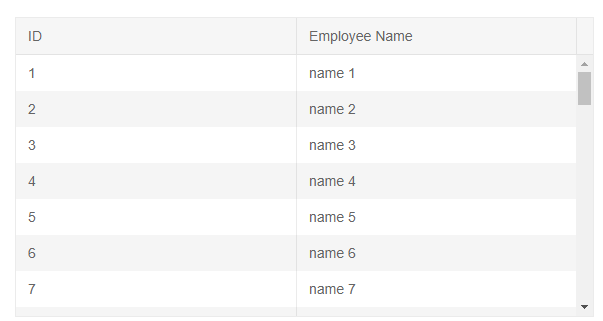
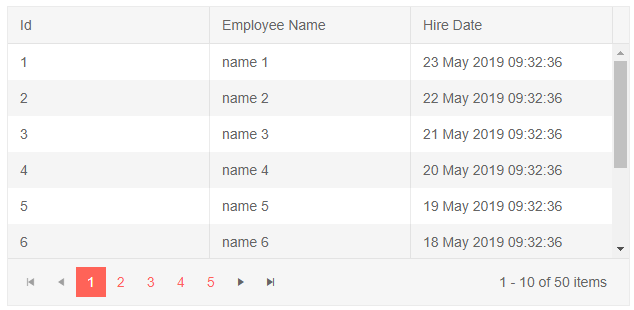
chore(grid): improve getting started example

diff --git a/components/grid/overview.md b/components/grid/overview.md
@@ -16,22 +16,39 @@ To create a basic Telerik Grid:
 
 1. use the `TelerikGrid` tag
 1. set its `Data` attribute to the variable that will hold your collection of data
-1. under its `TelerikGridColumns` tag, set the desired [`TelerikGridColumn`]({%slug components/grid/columns/bound%}) instances whose `Field` property points to the name of the model
+1. under its `TelerikGridColumns` tag, set the desired [`TelerikGridColumn`]({%slug components/grid/columns/bound%}) instances whose `Field` property points to the name of the model field
 
->caption Basic example of binding a grid to some data
+>caption Get started with a grid by providing it with a data collection
 
 ````CSHTML
 @using Telerik.Blazor.Components.Grid
 
-<TelerikGrid Data="@MyData">
+<TelerikGrid Data="@MyData" Height="300px" Pageable="true" Sortable="true">
 	<TelerikGridColumns>
-		<TelerikGridColumn Field="ID"></TelerikGridColumn>
-		<TelerikGridColumn Field="TheName" Title="Employee Name"></TelerikGridColumn>
+		<TelerikGridColumn Field="@(nameof(SampleData.Id))" />
+		<TelerikGridColumn Field="@(nameof(SampleData.Name))" Title="Employee Name" />
+		<TelerikGridColumn Field="@(nameof(SampleData.HireDate))" Title="Hire Date" />
 	</TelerikGridColumns>
 </TelerikGrid>
 
 @functions {
-	public IEnumerable<object> MyData = Enumerable.Range(1, 50).Select(x => new { ID = x, TheName = "name " + x });
+	public IEnumerable<SampleData> MyData = Enumerable.Range(1, 50).Select(x => new SampleData
+	{
+		Id = x,
+		Name = "name " + x,
+		HireDate = DateTime.Now.AddDays(-x)
+	});
+	
+	public class SampleData
+	{
+		public int Id { get; set; }
+		public string Name { get; set; }
+		public DateTime HireDate { get; set; }
+	}
+
+	//in a real case, consider fetching the data in an appropriate event like OnInitAsync
+	//also, consider keeping the models in dedicated locations like a shared library
+	//this is just an example that is easy to copy and run
 }
 ````
 
@@ -39,41 +56,7 @@ To create a basic Telerik Grid:
 
 ![](images/basic-grid.png)
 
->tip In a real case, you will probably be binding the grid to an actual model. You can use the `nameof` C# operator to provide the names of the fields to the `Field` property of the column.
-
->caption Example of populating the `Field` from the model name to ensure type-safety:
-
-````CSHTML
-@using Telerik.Blazor.Components.Grid
-
-<TelerikGrid Data="@MyData">
-	<TelerikGridColumns>
-		<TelerikGridColumn Field="@(nameof(SampleData.ID))">
-		</TelerikGridColumn>
-		<TelerikGridColumn Field="@(nameof(SampleData.Name))" Title="Employee Name">
-		</TelerikGridColumn>
-		<TelerikGridColumn Field="@(nameof(SampleData.HireDate))" Title="Hire Date">
-		</TelerikGridColumn>
-	</TelerikGridColumns>
-</TelerikGrid>
-
-@functions {
-    //in a real case, keep the models in dedicated locations, this is just an easy to copy and see example
-	public class SampleData
-	{
-		public int ID { get; set; }
-		public string Name { get; set; }
-		public DateTime HireDate { get; set; }
-	}
-
-	public IEnumerable<SampleData> MyData = Enumerable.Range(1, 50).Select(x => new SampleData
-	{
-		ID = x,
-		Name = "name " + x,
-		HireDate = DateTime.Now.AddDays(-x)
-	});
-}
-````
+>tip You can also use a string for the field name, using the `nameof` operator is not necessary. For example, the ID column can be defined like this: `<TelerikGridColumn Field="Id" />`.
 
 ## Reference
 
@@ -94,20 +77,20 @@ The grid is a generic component, and to store a reference, you must use the mode
 </TelerikGrid>
 
 @functions {
-    TelerikGrid<SampleData> theGridReference;
-
-    //in a real case, keep the models in dedicated locations, this is just an easy to copy and see example
-	public class SampleData
-	{
-		public int ID { get; set; }
-		public string Name { get; set; }
-	}
+	TelerikGrid<SampleData> theGridReference;
 
 	public IEnumerable<SampleData> MyData = Enumerable.Range(1, 50).Select(x => new SampleData
 	{
 		ID = x,
 		Name = "name " + x
 	});
+
+	//in a real case, keep the models in dedicated locations, this is just an easy to copy and see example
+	public class SampleData
+	{
+		public int ID { get; set; }
+		public string Name { get; set; }
+	}
 }
 ````
 
